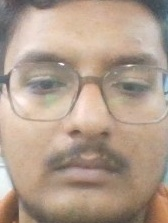
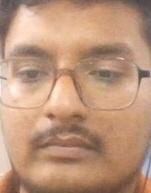
updates

diff --git a/client/src/pages/WizardModule.jsx b/client/src/pages/WizardModule.jsx
@@ -14,6 +14,7 @@ import CreateIcon from "@mui/icons-material/Create";
 import KeyboardArrowDownIcon from "@mui/icons-material/KeyboardArrowDown";
 import KeyboardArrowUpIcon from "@mui/icons-material/KeyboardArrowUp";
 import DeleteIcon from "@mui/icons-material/Delete";
+import TaskAltIcon from "@mui/icons-material/TaskAlt";
 import { useGsapReveal } from "../hooks/useGsapReveal";
 import { generateWizardContent, getWizardHistory, deleteWizardContent } from "../services/api";
 import { CircularProgress } from "@mui/material";
@@ -54,7 +55,7 @@ const ModuleItem = ({ mod, type }) => {
   return (
     <div style={{ background: "var(--surface)", border: "1px solid var(--border-strong)", borderRadius: "16px", padding: "24px", position: "relative", overflow: "hidden", transition: "all 0.3s", cursor: "pointer" }} onClick={() => setExpanded(!expanded)} className="hover-lift">
       <div style={{ position: "absolute", top: 0, left: 0, width: "6px", height: "100%", background: "linear-gradient(to bottom, #7c3aed, #06b6d4)" }} />
-      
+
       <div style={{ display: "flex", justifyContent: "space-between", alignItems: "flex-start", marginBottom: "12px" }}>
         <h3 style={{ margin: 0, fontSize: "1.3rem", fontWeight: 800, color: "var(--text)" }}>{mod.title}</h3>
         <div style={{ display: "flex", alignItems: "center", gap: "12px" }}>
@@ -63,10 +64,10 @@ const ModuleItem = ({ mod, type }) => {
               <ScheduleIcon style={{ fontSize: "1rem", marginRight: "4px" }} /> {mod.estimated_time}
             </div>
           )}
-          {expanded ? <KeyboardArrowUpIcon style={{color: "var(--text-light)"}}/> : <KeyboardArrowDownIcon style={{color: "var(--text-light)"}}/>}
+          {expanded ? <KeyboardArrowUpIcon style={{ color: "var(--text-light)" }} /> : <KeyboardArrowDownIcon style={{ color: "var(--text-light)" }} />}
         </div>
       </div>
-      
+
       <p style={{ color: "var(--text-light)", fontSize: "1rem", lineHeight: 1.6, margin: expanded ? "0 0 20px" : "0" }}>
         {mod.description}
       </p>
@@ -83,9 +84,9 @@ const ModuleItem = ({ mod, type }) => {
       {expanded && mod.topics && mod.topics.length > 0 && (
         <div style={{ display: "flex", flexDirection: "column", gap: "12px" }}>
           {mod.topics.map((topic, idx) => (
-            <div key={idx} style={{ 
-              background: "rgba(6, 182, 212, 0.05)", 
-              padding: "16px", borderRadius: "12px", 
+            <div key={idx} style={{
+              background: "rgba(6, 182, 212, 0.05)",
+              padding: "16px", borderRadius: "12px",
               border: "1px solid rgba(6, 182, 212, 0.1)"
             }}>
               <h4 style={{ margin: "0 0 6px", color: "#22d3ee", fontSize: "1rem", fontWeight: 700 }}>
@@ -98,7 +99,7 @@ const ModuleItem = ({ mod, type }) => {
               )}
               {topic.practical_task && (
                 <div style={{ marginTop: "12px", padding: "8px 12px", background: "rgba(16, 185, 129, 0.1)", borderRadius: "6px", color: "#10b981", fontSize: "0.85rem", fontWeight: 600 }}>
-                  <TaskAltIcon sx={{ fontSize: "1rem", marginRight: "4px", verticalAlign: "middle" }}/> 
+                  <TaskAltIcon sx={{ fontSize: "1rem", marginRight: "4px", verticalAlign: "middle" }} />
                   Task: {topic.practical_task}
                 </div>
               )}
@@ -112,9 +113,9 @@ const ModuleItem = ({ mod, type }) => {
 
 export default function WizardModule() {
   const [activeTab, setActiveTab] = useState("generate"); // 'generate' or 'history'
-  
+
   // Generator State
-  const [step, setStep] = useState(0); 
+  const [step, setStep] = useState(0);
   const [answers, setAnswers] = useState({ contentType: "", topic: "" });
   const [message, setMessage] = useState(null);
   const [error, setError] = useState(null);
@@ -165,13 +166,13 @@ export default function WizardModule() {
     setError(null);
     if (step === 0 && !answers.contentType) { setError("Please select an option."); return; }
     if (step === 1 && !answers.topic.trim()) { setError("Please provide a topic."); return; }
-    
+
     if (step >= 2 && step < 2 + activeQuestions.length) {
       const qIndex = step - 2;
       const qKey = activeQuestions[qIndex].key;
       if (!answers[qKey]) { setError("Please answer the question."); return; }
     }
-    
+
     setStep(s => s + 1);
   };
 
@@ -199,7 +200,7 @@ export default function WizardModule() {
         content_type: answers.contentType,
         details: details.trim()
       });
-      
+
       setGeneratedData(response);
       setMessage(`Successfully generated your ${answers.contentType.toLowerCase()}!`);
     } catch (err) {
@@ -254,8 +255,8 @@ export default function WizardModule() {
           </p>
           <div style={{ display: "flex", flexDirection: "column", gap: "16px" }}>
             {CONTENT_TYPES.map(type => (
-              <div 
-                key={type.id} 
+              <div
+                key={type.id}
                 onClick={() => {
                   setAnswers({ contentType: type.id, topic: "" });
                   setTimeout(() => setStep(1), 150);
@@ -298,7 +299,7 @@ export default function WizardModule() {
             className="wiz-input-clean"
             placeholder="e.g. Frontend Development, Machine Learning..."
             value={answers.topic}
-            onChange={e => setAnswers({...answers, topic: e.target.value})}
+            onChange={e => setAnswers({ ...answers, topic: e.target.value })}
             onKeyDown={e => e.key === 'Enter' && handleNext()}
             style={{
               width: "100%", padding: "20px", fontSize: "1.2rem", textAlign: "center",
@@ -314,21 +315,21 @@ export default function WizardModule() {
       const qIndex = step - 2;
       const currentQ = activeQuestions[qIndex];
       const ansKey = currentQ.key;
-      
+
       return (
         <div style={{ animation: "fadeInUp 0.4s ease", textAlign: "center" }}>
           <h2 style={{ fontSize: "2.2rem", fontWeight: 900, marginBottom: "16px", color: "var(--text)", lineHeight: 1.2 }}>{currentQ.label}</h2>
           <p style={{ color: "var(--text-light)", marginBottom: "40px", fontSize: "1rem" }}>
             Help the AI understand your specific needs.
           </p>
-          
+
           {currentQ.type === "select" ? (
             <div style={{ display: "flex", flexDirection: "column", gap: "12px", maxWidth: "400px", margin: "0 auto" }}>
               {currentQ.options.map(opt => (
                 <button
                   key={opt}
                   onClick={() => {
-                    setAnswers({...answers, [ansKey]: opt});
+                    setAnswers({ ...answers, [ansKey]: opt });
                     setTimeout(() => handleNext(), 150);
                   }}
                   style={{
@@ -350,7 +351,7 @@ export default function WizardModule() {
               className="wiz-input-clean"
               placeholder={currentQ.placeholder}
               value={answers[ansKey] || ""}
-              onChange={e => setAnswers({...answers, [ansKey]: e.target.value})}
+              onChange={e => setAnswers({ ...answers, [ansKey]: e.target.value })}
               onKeyDown={e => e.key === 'Enter' && handleNext()}
               style={{
                 width: "100%", maxWidth: "500px", margin: "0 auto", padding: "20px", fontSize: "1.2rem", textAlign: "center",
@@ -373,7 +374,7 @@ export default function WizardModule() {
           <p style={{ color: "var(--text-light)", marginBottom: "40px", fontSize: "1rem" }}>
             Review your inputs before we construct your personalized {answers.contentType.toLowerCase()}.
           </p>
-          
+
           <div style={{ background: "var(--surface-soft)", border: "1px solid var(--border)", borderRadius: "16px", padding: "32px", textAlign: "left", maxWidth: "500px", margin: "0 auto 40px" }}>
             <div style={{ display: "flex", flexDirection: "column", gap: "20px" }}>
               <div>
@@ -401,27 +402,27 @@ export default function WizardModule() {
 
   return (
     <section ref={rootRef} className="page-shell" style={{ minHeight: "100vh", display: "flex", flexDirection: "column", alignItems: "center", paddingTop: "6vh", paddingBottom: "10vh" }}>
-      
+
       {/* TABS NAVIGATION */}
       {!generatedData && !selectedHistoryItem && step < (2 + activeQuestions.length + 1) && (
         <div style={{ display: "flex", background: "rgba(255,255,255,0.05)", borderRadius: "30px", padding: "6px", marginBottom: "40px", border: "1px solid var(--border)" }}>
-          <button 
+          <button
             onClick={() => setActiveTab("generate")}
             style={{ padding: "10px 24px", borderRadius: "24px", background: activeTab === "generate" ? "var(--surface-light)" : "transparent", color: activeTab === "generate" ? "var(--text)" : "var(--text-light)", border: "none", cursor: "pointer", fontWeight: 600, display: "flex", alignItems: "center", transition: "all 0.2s" }}
           >
-            <CreateIcon sx={{ fontSize: "1.1rem", mr: 1 }}/> Generate New
+            <CreateIcon sx={{ fontSize: "1.1rem", mr: 1 }} /> Generate New
           </button>
-          <button 
+          <button
             onClick={() => setActiveTab("history")}
             style={{ padding: "10px 24px", borderRadius: "24px", background: activeTab === "history" ? "var(--surface-light)" : "transparent", color: activeTab === "history" ? "var(--text)" : "var(--text-light)", border: "none", cursor: "pointer", fontWeight: 600, display: "flex", alignItems: "center", transition: "all 0.2s" }}
           >
-            <HistoryIcon sx={{ fontSize: "1.1rem", mr: 1 }}/> My Content
+            <HistoryIcon sx={{ fontSize: "1.1rem", mr: 1 }} /> My Content
           </button>
         </div>
       )}
 
       <div style={{ width: "100%", maxWidth: "800px", padding: "0 20px" }}>
-        
+
         {/* --- GENERATOR FLOW --- */}
         {activeTab === "generate" && !selectedHistoryItem && (
           <>
@@ -435,8 +436,8 @@ export default function WizardModule() {
                     </button>
                   )}
                   <div style={{ marginLeft: "auto", display: "flex", gap: "6px" }}>
-                    {Array.from({length: activeQuestions.length > 0 ? 3 + activeQuestions.length : 1}).map((_, idx) => (
-                      <div key={idx} style={{ 
+                    {Array.from({ length: activeQuestions.length > 0 ? 3 + activeQuestions.length : 1 }).map((_, idx) => (
+                      <div key={idx} style={{
                         width: "24px", height: "4px", borderRadius: "2px",
                         background: idx === step ? "#06b6d4" : idx < step ? "rgba(6, 182, 212, 0.3)" : "rgba(255,255,255,0.1)",
                         transition: "all 0.3s ease"
@@ -480,7 +481,7 @@ export default function WizardModule() {
                       <button onClick={startOver} style={{ background: "rgba(255,255,255,0.05)", border: "1px solid var(--border)", color: "var(--text)", padding: "10px 20px", borderRadius: "20px", cursor: "pointer", display: "flex", alignItems: "center", fontWeight: 600, transition: "all 0.2s" }} className="hover-bg-surface">
                         <ArrowBackIcon style={{ fontSize: "1.1rem", marginRight: "6px" }} /> Start Over
                       </button>
-                      {message && <div style={{ display: "flex", alignItems: "center", color: "#10b981", fontWeight: 600, fontSize: "0.95rem" }}><CheckCircleIcon style={{ fontSize: "1.2rem", marginRight: "6px" }}/> Done</div>}
+                      {message && <div style={{ display: "flex", alignItems: "center", color: "#10b981", fontWeight: 600, fontSize: "0.95rem" }}><CheckCircleIcon style={{ fontSize: "1.2rem", marginRight: "6px" }} /> Done</div>}
                     </div>
 
                     {renderContentData(generatedData)}
@@ -494,21 +495,21 @@ export default function WizardModule() {
         {/* --- MY CONTENT FLOW --- */}
         {activeTab === "history" && !selectedHistoryItem && (
           <div style={{ animation: "fadeInUp 0.4s ease", width: "100%" }}>
-             <h2 style={{ fontSize: "2.2rem", fontWeight: 900, marginBottom: "8px", color: "var(--text)" }}>My Generated Content</h2>
-             <p style={{ color: "var(--text-light)", marginBottom: "32px", fontSize: "1rem" }}>
+            <h2 style={{ fontSize: "2.2rem", fontWeight: 900, marginBottom: "8px", color: "var(--text)" }}>My Generated Content</h2>
+            <p style={{ color: "var(--text-light)", marginBottom: "32px", fontSize: "1rem" }}>
               View and manage your previously generated roadmaps and schedules.
             </p>
 
             {isHistoryLoading ? (
-               <div style={{ textAlign: "center", padding: "60px 0" }}>
-                  <CircularProgress size={40} sx={{ color: "#06b6d4" }} />
-               </div>
+              <div style={{ textAlign: "center", padding: "60px 0" }}>
+                <CircularProgress size={40} sx={{ color: "#06b6d4" }} />
+              </div>
             ) : historyItems.length === 0 ? (
-               <div style={{ textAlign: "center", padding: "60px 0", background: "var(--surface-soft)", borderRadius: "16px", border: "1px dashed var(--border)" }}>
-                 <MenuBookIcon sx={{ fontSize: 48, color: "var(--text-light)", opacity: 0.5, mb: 2 }} />
-                 <h3 style={{ color: "var(--text)", mb: 1 }}>No content generated yet</h3>
-                 <p style={{ color: "var(--text-light)", fontSize: "0.95rem" }}>Head over to the Generate tab to create your first learning plan.</p>
-               </div>
+              <div style={{ textAlign: "center", padding: "60px 0", background: "var(--surface-soft)", borderRadius: "16px", border: "1px dashed var(--border)" }}>
+                <MenuBookIcon sx={{ fontSize: 48, color: "var(--text-light)", opacity: 0.5, mb: 2 }} />
+                <h3 style={{ color: "var(--text)", mb: 1 }}>No content generated yet</h3>
+                <p style={{ color: "var(--text-light)", fontSize: "0.95rem" }}>Head over to the Generate tab to create your first learning plan.</p>
+              </div>
             ) : (
               <div style={{ display: "flex", flexDirection: "column", gap: "16px" }}>
                 {historyItems.map(item => (
@@ -543,8 +544,9 @@ export default function WizardModule() {
         )}
 
       </div>
-      
-      <style dangerouslySetInnerHTML={{__html: `
+
+      <style dangerouslySetInnerHTML={{
+        __html: `
         .wiz-hover-card:hover {
           transform: translateY(-2px);
           border-color: #06b6d4 !important;

diff --git a/client/src/pages/Login.jsx b/client/src/pages/Login.jsx
@@ -37,7 +37,8 @@ export default function Login() {
             await login(form);
             navigate(from, { replace: true });
         } catch (err) {
-            setError(err.response?.data?.detail || "Login failed. Please verify your credentials.");
+            // setError(err.response?.data?.detail || "Login failed. Please verify your credentials.");
+            setError(err.response?.detail?.message || "Login failed. Try again later...");
         } finally {
             setLoading(false);
         }

diff --git a/client/src/components/rag/ChatWindow.jsx b/client/src/components/rag/ChatWindow.jsx
@@ -311,7 +311,7 @@ export default function ChatWindow({ ragReady, status, selectedSession, onSessio
           createdAt: new Date().toISOString(),
           modeUsed: data.mode_used,
           warning: data.warning ?? "",
-          tokenUsage: data.token_usage ?? null,
+          tokenUsage: data.usage.total_tokens ?? null,
         }),
       ]);
 
